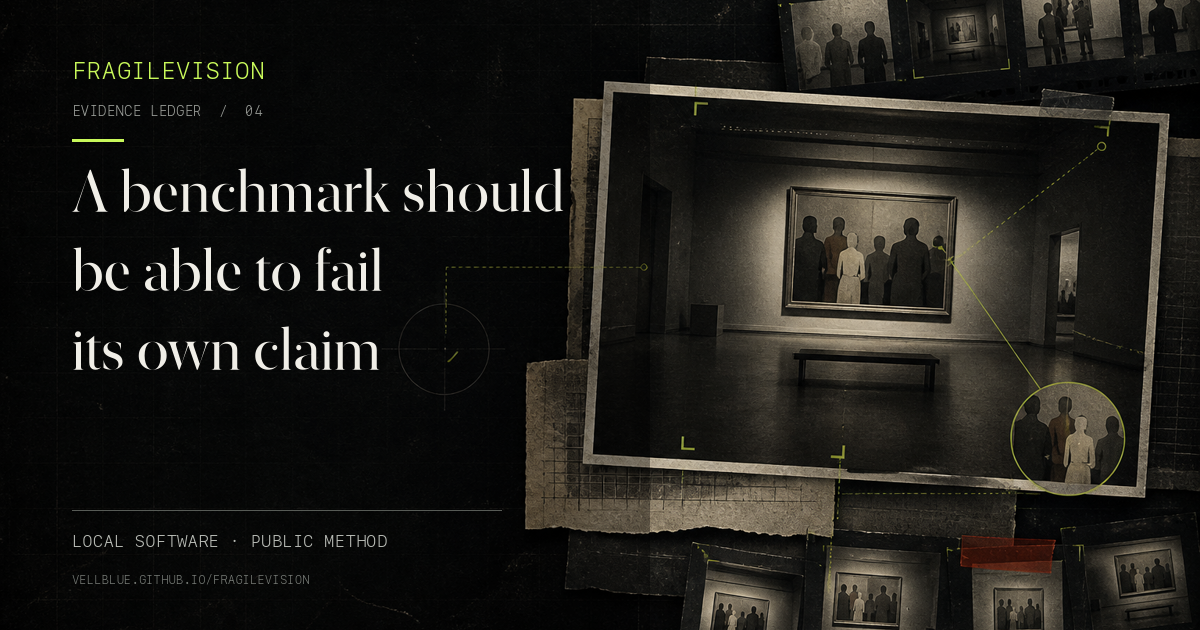
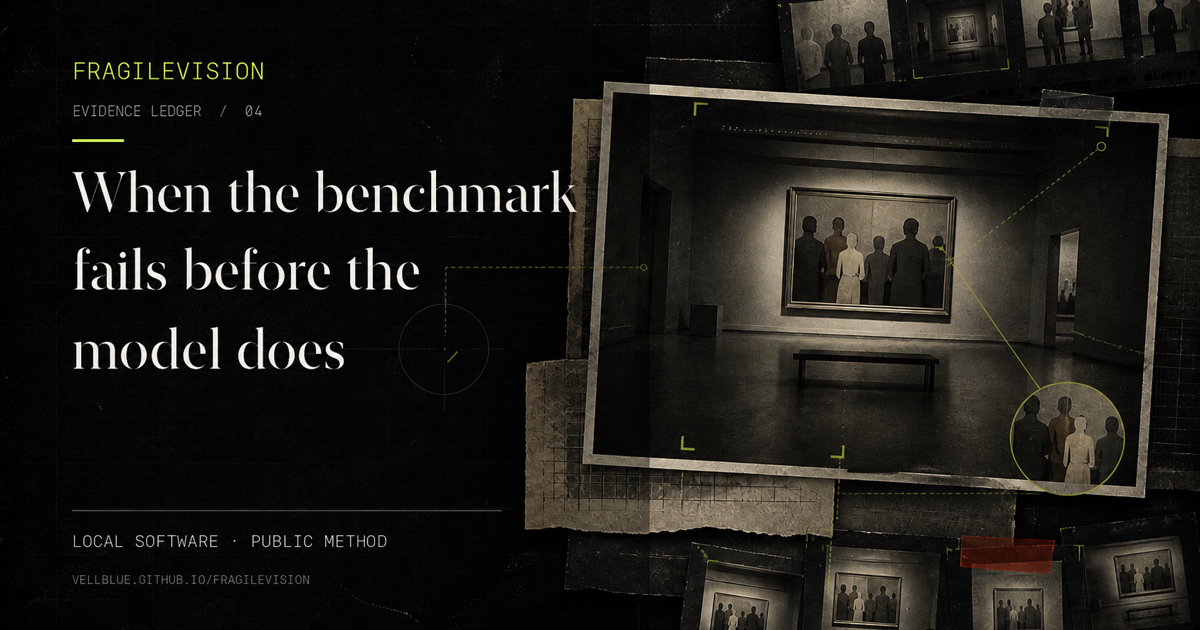
Sharpen article title for sharing

diff --git a/docs/it/index.html b/docs/it/index.html
@@ -3,14 +3,14 @@
 <head>
   <meta charset="utf-8">
   <meta name="viewport" content="width=device-width, initial-scale=1">
-  <title>Un benchmark deve saper smentire la propria conclusione — FragileVision</title>
+  <title>Quando il benchmark sbaglia prima del modello — FragileVision</title>
   <meta name="description" content="Perché ho costruito FragileVision: un laboratorio locale che, oltre al modello visivo, mette alla prova il benchmark, il campione e la verità di riferimento.">
   <meta name="theme-color" content="#090c0d">
   <meta property="og:type" content="article">
   <meta property="og:site_name" content="FragileVision">
   <meta property="og:locale" content="it_IT">
   <meta property="og:locale:alternate" content="en_US">
-  <meta property="og:title" content="Un benchmark deve saper smentire la propria conclusione">
+  <meta property="og:title" content="Quando il benchmark sbaglia prima del modello">
   <meta property="og:description" content="FragileVision mette alla prova il benchmark, il campione e la verità di riferimento insieme al modello visivo.">
   <meta property="og:url" content="https://vellblue.github.io/fragilevision/it/">
   <meta property="og:image" content="https://vellblue.github.io/fragilevision/social-card-it.png">
@@ -20,7 +20,7 @@
   <meta property="og:image:alt" content="Il registro delle prove di FragileVision accanto a una sala vuota e a un dipinto con alcune persone.">
   <meta property="article:published_time" content="2026-08-26">
   <meta name="twitter:card" content="summary_large_image">
-  <meta name="twitter:title" content="Un benchmark deve saper smentire la propria conclusione">
+  <meta name="twitter:title" content="Quando il benchmark sbaglia prima del modello">
   <meta name="twitter:description" content="Un laboratorio locale che mette alla prova la valutazione insieme al modello visivo.">
   <meta name="twitter:image" content="https://vellblue.github.io/fragilevision/social-card-it.png">
   <meta name="twitter:image:alt" content="Il registro delle prove di FragileVision accanto a una sala vuota e a un dipinto con alcune persone.">
@@ -47,8 +47,8 @@
 
   <header class="hero">
     <div>
-      <p class="eyebrow">È nato da un benchmark che non mi convinceva più</p>
-      <h1>Un benchmark deve saper smentire la propria conclusione</h1>
+      <p class="eyebrow">Un benchmark deve saper smentire la propria conclusione</p>
+      <h1>Quando il benchmark sbaglia prima del modello</h1>
       <p class="deck">FragileVision non si limita a chiedere se il modello ha risposto bene. Controlla anche se la domanda, il campione e le annotazioni permettono davvero di sostenerlo.</p>
       <p class="byline">Simone · agosto 2026 · software locale, metodo pubblico · <a href="../" lang="en">Read in English</a></p>
     </div>

diff --git a/docs/index.html b/docs/index.html
@@ -3,14 +3,14 @@
 <head>
   <meta charset="utf-8">
   <meta name="viewport" content="width=device-width, initial-scale=1">
-  <title>A benchmark should be able to fail its own claim — FragileVision</title>
+  <title>When the benchmark fails before the model does — FragileVision</title>
   <meta name="description" content="Why I built FragileVision: a local laboratory that tests the benchmark, the sample and the ground truth alongside the vision-language model.">
   <meta name="theme-color" content="#090c0d">
   <meta property="og:type" content="article">
   <meta property="og:site_name" content="FragileVision">
   <meta property="og:locale" content="en_US">
   <meta property="og:locale:alternate" content="it_IT">
-  <meta property="og:title" content="A benchmark should be able to fail its own claim">
+  <meta property="og:title" content="When the benchmark fails before the model does">
   <meta property="og:description" content="FragileVision tests the benchmark, the sample and the ground truth alongside the vision-language model.">
   <meta property="og:url" content="https://vellblue.github.io/fragilevision/">
   <meta property="og:image" content="https://vellblue.github.io/fragilevision/social-card-en.png">
@@ -20,7 +20,7 @@
   <meta property="og:image:alt" content="FragileVision evidence ledger beside an empty gallery and a painting containing people.">
   <meta property="article:published_time" content="2026-08-26">
   <meta name="twitter:card" content="summary_large_image">
-  <meta name="twitter:title" content="A benchmark should be able to fail its own claim">
+  <meta name="twitter:title" content="When the benchmark fails before the model does">
   <meta name="twitter:description" content="A local evidence laboratory that tests the evaluation alongside the vision-language model.">
   <meta name="twitter:image" content="https://vellblue.github.io/fragilevision/social-card-en.png">
   <meta name="twitter:image:alt" content="FragileVision evidence ledger beside an empty gallery and a painting containing people.">
@@ -47,8 +47,8 @@
 
   <header class="hero">
     <div>
-      <p class="eyebrow">An evaluation tool built after an evaluation failed</p>
-      <h1>A benchmark should be able to fail its own claim</h1>
+      <p class="eyebrow">A benchmark should be able to fail its own claim</p>
+      <h1>When the benchmark fails before the model does</h1>
       <p class="deck">FragileVision does not just ask whether a model was right. It asks whether the question, the sample and the people who labelled it earned the right to say so.</p>
       <p class="byline">Simone · August 2026 · local software, public method · <a href="it/" lang="it">Leggi in italiano</a></p>
     </div>
